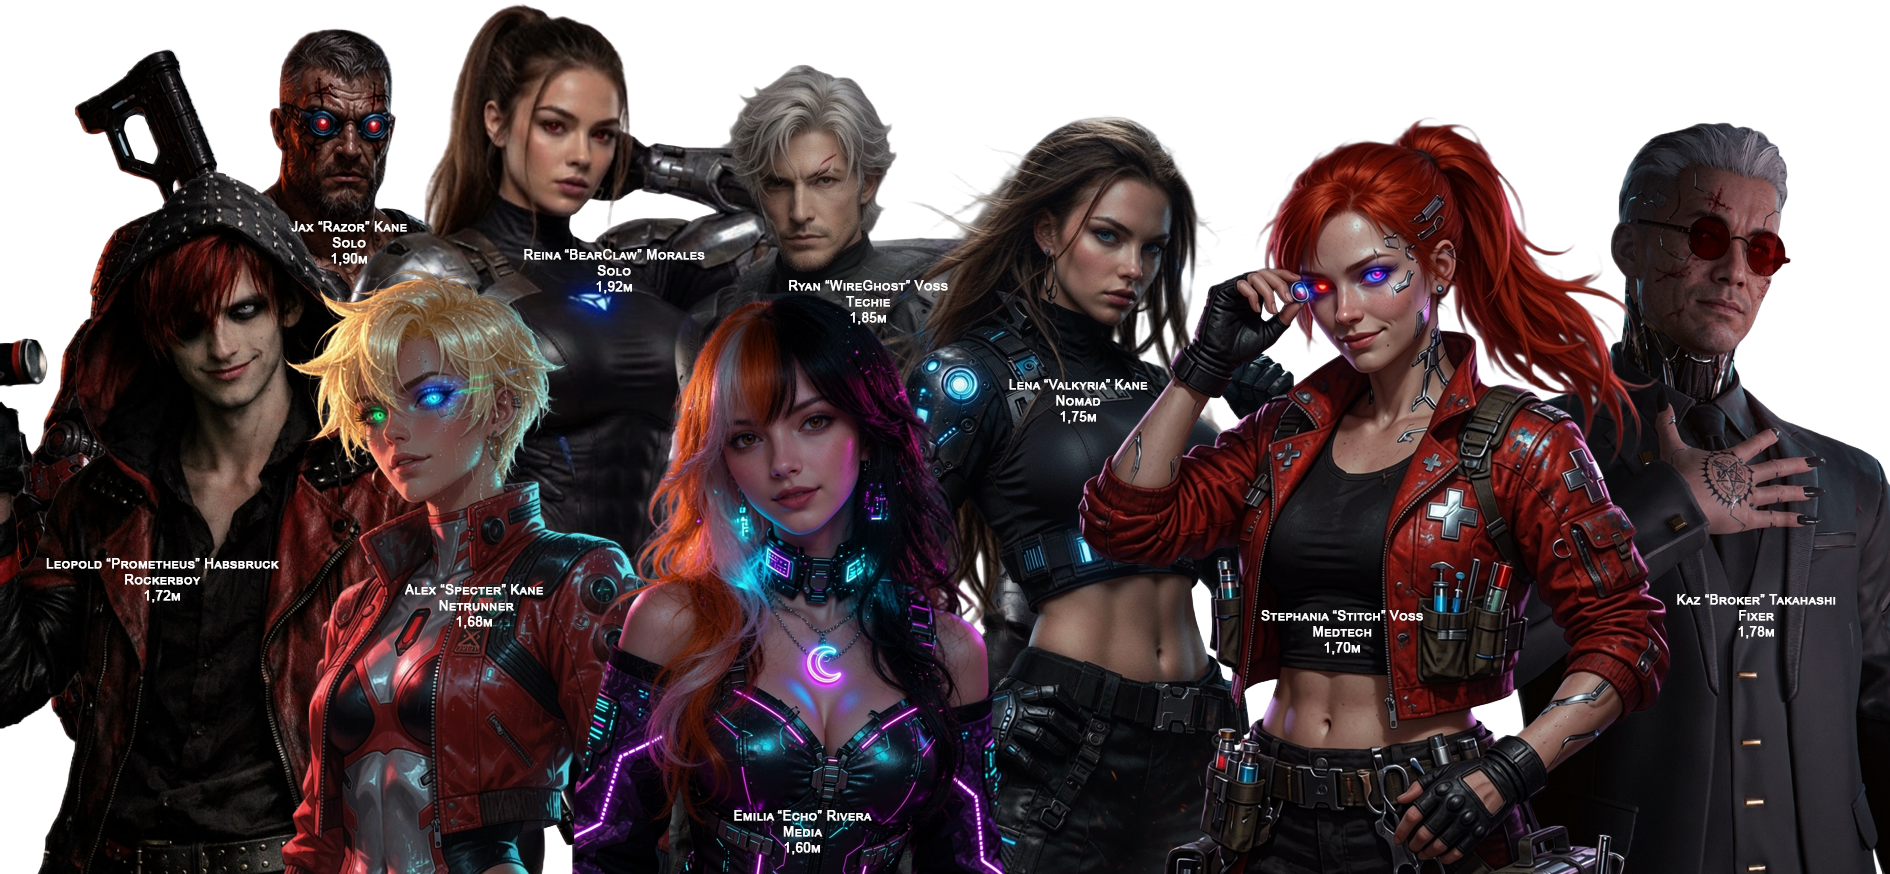
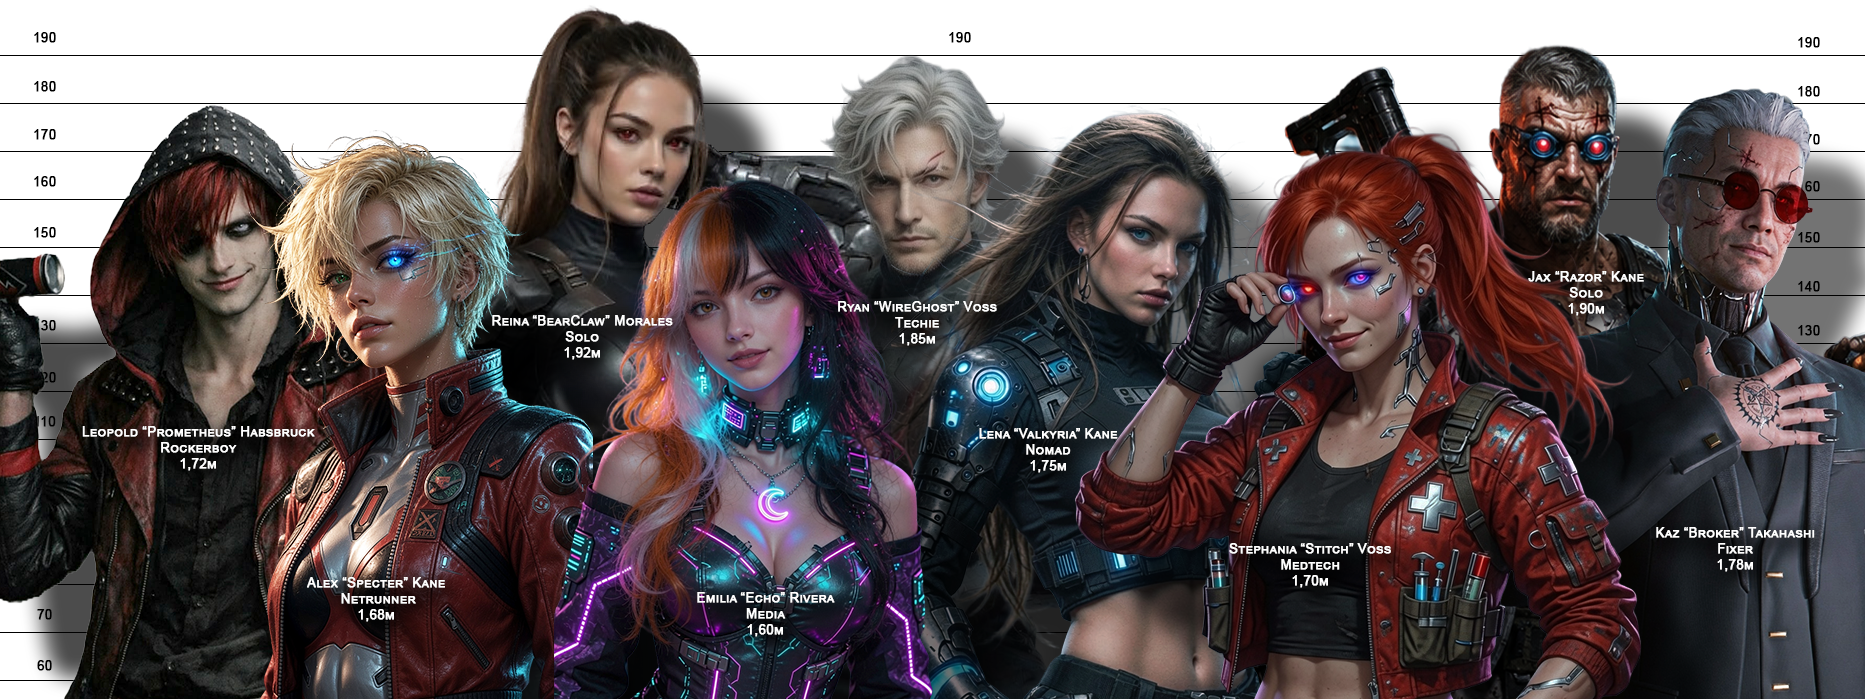
Fecha o acerto de IP até a 028 e os pontos de classe.
Ryan: rank 5 em Field e Fabrication; acerto 1.060, gasto 940, sobram 120.
Valk: Moto 6, Drive 7, Perception 6, Handgun 6; sobram 20.
Jax e Reina: loadout padrão. Stitch: Surgery 3 e Stim.
Sobe a lineup da crew em imagens/full_crew2.png.

diff --git a/sistema/regras_red/07_roles.md b/sistema/regras_red/07_roles.md
@@ -1,7 +1,7 @@
 ---
-version: 1.0.3
+version: 1.0.4
 status: stable
-last_updated: 2026-09-09
+last_updated: 2026-10-11
 source: Cyberpunk RED core (resumo operacional) + fichas da crew
 ---
 
@@ -21,7 +21,7 @@ Netrunning profundo: Fase 4 ([10](10_netrunning.md) quando existir).
 | Ranks | Maker **5** · Upgrade **3** · Invention **2** · Fabrication **4** · Field **1** |
 | Regras | [08_techie.md](08_techie.md) |
 
-**Em mesa:** fabricar, upar, inventar, jury rig, drones; Upgrade Expertise reduz HL em implantes elegíveis.
+**Em mesa:** fabricar, upar, inventar, jury rig, drones; Upgrade Expertise reduz HL em implantes elegíveis. Rank 5 pôs 1 em Field e 1 em Fabrication. Sequência na ficha. IP até a 028: acerto 1.060, gasto 940, sobram 120.
 
 ---
 
@@ -32,8 +32,9 @@ Netrunning profundo: Fase 4 ([10](10_netrunning.md) quando existir).
 | Ficha | [nomad - lena_valk_kane.md](../../fichas/nomad%20-%20lena_valk_kane.md) |
 | Veículo | [The Mule](../../fichas/vehicle%20-%20the_mule.md) · [09_veiculos](09_veiculos.md) |
 | F08 | Equipe **Valk + Mule** (atalho; handle = **Valkirya**, F21) |
+| Moto | **6** (criação 4 + IP). +6 em Drive e Vehicle Tech. Motorpool: 6 escolhas em aberto |
 
-**Em mesa:** bônus com veículos da família/pack (rank Moto na ficha se listado); Drive e perseguição; extração.  
+**Em mesa:** REF 8 + Drive 7 + Moto 6 + 1d10 ao dirigir. IP até a 028: acerto 1.060, gasto 1.040, sobram 20. Os upgrades do Mule (8x8, Vanisher, MIAC) não gastam motorpool.  
 Ryan **não** usa Moto por default.
 
 ---
@@ -42,10 +43,10 @@ Ryan **não** usa Moto por default.
 
 | Campo | Valor |
 | ----- | ----- |
-| Jax | [solo - jax_razor_kane.md](../../fichas/solo%20-%20jax_razor_kane.md) — Combat Awareness **6** (rifle / extração armada) |
-| Reina | [solo - reina_bearclaw_morales.md](../../fichas/solo%20-%20reina_bearclaw_morales.md) — Combat Awareness **6** (CQC / proteção) |
+| Jax | [solo - jax_razor_kane.md](../../fichas/solo%20-%20jax_razor_kane.md) — Combat Awareness **6**. Padrão: Precision 3, Spot Weakness 2, Threat Detection 1 |
+| Reina | [solo - reina_bearclaw_morales.md](../../fichas/solo%20-%20reina_bearclaw_morales.md) — Combat Awareness **6**. Padrão: Damage Deflection 4, Threat Detection 1, Spot Weakness 1 |
 
-**Em mesa (resumo core):** pontos de Combat Awareness por cena para init, detecção de emboscada, bônus de combate — gastar conforme rank; não spam infinito.
+**Em mesa:** a pool é o rank (6 pontos), não 2 por nível. Remanejar no início do combate ou com uma Action. Se ninguém mexer, vale o padrão da ficha. Kerenzikov já cobre a Iniciativa dos dois.
 
 ---
 
@@ -65,9 +66,9 @@ Ryan **não** usa Moto por default.
 | Campo | Valor |
 | ----- | ----- |
 | Ficha | [medtech - stephania_stitch_voss.md](../../fichas/medtech%20-%20stephania_stitch_voss.md) |
-| Medicine | Rank **4** (Surgery, pharma, etc.) |
+| Medicine | Rank **4** = 4 pontos. Surgery **3** (skill 6) · Pharmaceuticals **1** (Stim, Medical Tech 1) · Cryo **0** |
 
-**Em mesa:** First Aid / Paramedic / Surgery com DV melhores e opções de pharma; **≠ Doc Moreau** (F04).
+**Em mesa:** TECH 8 + Surgery 6 na mesa; Stim ignora a penalidade de Seriously Wounded por uma hora. **≠ Doc Moreau** (F04).
 
 ---
 
@@ -115,6 +116,11 @@ Lawman / Exec / etc.: **não na crew** — se aparecer NPC, criar bloco ou usar 
 ---
 
 ## Changelog
+
+### 1.0.4 — 2026-10-11
+
+- Ryan: rank 5 = Field 1 + Fabrication 1. IP 1.060 / gasto 940 / sobram 120.
+- Valk: Moto 6. Jax/Reina: loadout padrão da pool de 6. Stitch: Surgery 3, Stim 1, Cryo 0.
 
 ### 1.0.3 — 2026-09-09
 

diff --git a/fichas/nomad - lena_valk_kane.md b/fichas/nomad - lena_valk_kane.md
@@ -69,13 +69,44 @@ No **flanco esquerdo** — costela / abdômen até o quadril — tinta tribal es
 
 | Skill                | Nível | Skill                | Nível |
 | -------------------- | ----- | -------------------- | ----- |
-| Drive Land Vehicle   | 6     | Streetwise           | 4     |
-| Handgun              | 5     | Tactics              | 4     |
+| Drive Land Vehicle   | 7     | Streetwise           | 4     |
+| Handgun              | 6     | Tactics              | 4     |
 | Vehicle Tech         | 5     | Stealth              | 4     |
-| Perception           | 5     | Resist Torture/Drugs | 4     |
+| Perception           | 6     | Resist Torture/Drugs | 4     |
 | Athletics            | 4     | First Aid            | 3     |
 | Local Expert (Roads) | 3     | Endurance            | 3     |
 | Brawling             | 3     | Melee Weapon         | 2     |
+
+Vehicle Tech desta ficha = **Land Vehicle Tech**.
+
+## Role Ability: Moto 6
+
+Criação era **Moto 4** (o rank não estava na ficha). Ranks 5 e 6 pagos com IP, 2026-10-11.
+
+O rank soma em qualquer teste de **Drive Land Vehicle**, **Pilot Air Vehicle**, **Pilot Sea Vehicle**, **Land / Air / Sea Vehicle Tech**.
+
+| Teste que ela usa | Conta |
+| ----------------- | ----- |
+| Dirigir | REF 8 + Drive 7 + Moto 6 + 1d10 = **21 + 1d10** |
+| Land Vehicle Tech | TECH 7 + Vehicle Tech 5 + Moto 6 + 1d10 = **18 + 1d10** |
+| Handgun | REF 8 + 6 + 1d10 = **14 + 1d10** |
+| Perception | INT 6 + 6 + 1d10 = **12 + 1d10** |
+
+**Motorpool:** 1 escolha por rank, **6 em aberto** (4 da criação + rank 5 + rank 6). Cada escolha é um veículo de estoque daquele rank ou menos, ou um upgrade de rank igual ou menor num veículo da família. A família original está morta. O Mule já é dela. 8x8, Vanisher, MIAC-5 e o SP 20 continuam obra de campanha do Ryan — não gastam estas escolhas. Nada novo entra no Mule por esta linha até uma escolha ser sacada.
+
+**IP até a 028:** acerto **1.060** (22 sessões na faixa 40 + 6 na faixa 30; a mesma conta do Ryan). Gasto **1.040**. Sobram **20**.
+
+| Compra | Custo |
+| ------ | ----- |
+| Moto 5 | 300 |
+| Moto 6 | 360 |
+| Drive Land Vehicle 6→7 | 140 |
+| Perception 5→6 | 120 |
+| Handgun 5→6 | 120 |
+
+Moto 7 custaria mais 420. Faltam 400 para esse passo. Os 20 que sobram não compram o próximo nível de nenhuma skill que ela já tem (o mais barato útil seria Melee 2→3 = 60).
+
+Regras: [07_roles.md](../sistema/regras_red/07_roles.md) · [09_veiculos.md](../sistema/regras_red/09_veiculos.md).
 
 ## Cyberware
 

diff --git a/fichas/medtech - stephania_stitch_voss.md b/fichas/medtech - stephania_stitch_voss.md
@@ -68,7 +68,8 @@ Compartilha o sobrenome **Voss** com Ryan, mas **sem parentesco**. O sobrenome e
 - Paramedic (x2): 6 (excelente em campo)
 - Cybertech: 6
 - Basic Tech: 5
-- Medical Tech (via Role): Alta prioridade
+- Medical Tech: 1 (via Pharmaceuticals; ver Medicine abaixo)
+- Surgery: 6 (via Medicine; ver abaixo)
 - Resist Torture/Drugs: 5
 - Deduction: 5
 - Science (Biologia/Medicina): 5
@@ -85,11 +86,19 @@ Compartilha o sobrenome **Voss** com Ryan, mas **sem parentesco**. O sobrenome e
 
 ## MEDICINE (Role Ability - Rank 4)
 
-**Escolhas de Especialidades:**
+**4 pontos**, um por rank. Cada ponto vai para uma especialidade: Surgery, Pharmaceuticals ou Cryosystem.
 
-- Surgery (forte em implantes e ferimentos graves)
-- Medical Tech (Pharmaceuticals) (drogas de combate customizadas)
-- Medical Tech (Cryosystem) (se aplicável)
+| Especialidade | Pontos | O que vira |
+| ------------- | ------ | ---------- |
+| Surgery | 3 | Surgery skill **6** (2 de skill por ponto). Critical injury, implante de chrome, a mesa. |
+| Pharmaceuticals | 1 | Medical Tech skill **1**. Droga: **Stim**. |
+| Cryosystem Operation | 0 | Sem tanque. A linha antiga dizia "se aplicável". |
+
+**Stim:** a dose faz o alvo ignorar as penalidades de Seriously Wounded por uma hora. Uma vez por dia na mesma pessoa. Sintetizar: DV 13 com Medical Tech, 200 eb de material; em 1 hora, doses iguais ao Medical Tech (aqui, 1).
+
+Na jogada: TECH 8 + Surgery 6 + 1d10 na mesa. TECH 8 + Medical Tech 1 + 1d10 para a droga.
+
+Trocar o ponto de Stim por Speedheal (cura BODY+WILL, 1×/dia, se não estiver Mortally Wounded) não muda o resto. Cryo continua 0 até existir tanque.
 
 ## Cyberware (discreto, foco médico - HL controlado)
 

diff --git a/sistema/regras_red/09_veiculos.md b/sistema/regras_red/09_veiculos.md
@@ -1,7 +1,7 @@
 ---
-version: 1.1.0
+version: 1.1.1
 status: stable
-last_updated: 2026-10-03
+last_updated: 2026-10-11
 source: Cyberpunk RED core (resumo operacional) + ficha The Mule
 ---
 
@@ -78,9 +78,9 @@ Skills de outros meios (Water / Air) só se a cena e a ficha tiverem.
 
 ## 6. Nomad — Moto (ponte)
 
-- Role Ability **Moto** / Family (core): bônus com veículos da família / pack — ver ranks na ficha da **Valk**.  
-- Em dúvida: Valk + Mule = pacote tático (F08); bônus de Moto só se a ficha tiver rank listado.  
-- **Não** aplicar bônus Nomad a Ryan por default (ele não é Nomad).
+- Role Ability **Moto 6** (ficha da Valk): +6 em Drive Land / Pilot Air / Pilot Sea e em Land / Air / Sea Vehicle Tech. Dirigir o Mule: REF 8 + Drive 7 + Moto 6 + 1d10.
+- Valk + Mule = pacote tático (F08). As 6 escolhas de motorpool estão em aberto; não somar upgrade novo no Mule por esta linha.
+- **Não** aplicar Moto a Ryan (ele não é Nomad).
 
 ---
 
@@ -102,6 +102,10 @@ Anti-ID / Void List em jobs com Echo: ver ficha Mule + [echo_exposicao](../echo_
 ---
 
 ## Changelog
+
+### 1.1.1 — 2026-10-11
+
+- Valk Moto 6 na ponte. Motorpool não entra no Mule.
 
 ### 1.1.0 — 2026-10-03
 

diff --git a/fichas/solo - reina_bearclaw_morales.md b/fichas/solo - reina_bearclaw_morales.md
@@ -51,7 +51,19 @@ Hoje: freelancer de rua. Presença primeiro, porrada se precisar. **“Mãe Urso
 
 ## Role Ability: Combat Awareness 6
 
-Pontos por cena para iniciativa, detecção de emboscada e bônus de CQC — gastar conforme rank; não spam. Regras: [07_roles.md](../sistema/regras_red/07_roles.md).
+Pool de **6** pontos (1 por rank). Remanejar no início do combate, fora dele, ou em combate com uma Action. Se ninguém mexer, vale este padrão. CQC / proteção. Jax é o tiro.
+
+**Padrão — o escudo:**
+
+| Efeito | Pontos | Na jogada |
+| ------ | ------ | --------- |
+| Damage Deflection | 4 | **−2** no primeiro dano que ela toma no round |
+| Threat Detection | 1 | **+1** em Perception |
+| Spot Weakness | 1 | **+1** de dano, antes da armadura, no primeiro acerto do round |
+
+Kerenzikov já dá **+2** de Iniciativa. Este padrão não compra Initiative Reaction. O −2 da Deflection é só o primeiro dano do round.
+
+Regras: [07_roles.md](../sistema/regras_red/07_roles.md).
 
 ## Skills (86 pts; Combat Awareness à parte)
 

diff --git a/fichas/solo - jax_razor_kane.md b/fichas/solo - jax_razor_kane.md
@@ -76,7 +76,19 @@ EMP no limite = custo de chrome **visual**, não tema de cyberpsychosis.
 
 ## Role Ability: Combat Awareness 6
 
-Pontos por cena para iniciativa, detecção de emboscada e bônus de combate — gastar conforme rank; não spam. Regras: [07_roles.md](../sistema/regras_red/07_roles.md). Rifle / extração armada, não CQC de Reina.
+Pool de **6** pontos (1 por rank). Remanejar no início do combate, fora dele, ou em combate com uma Action. Se ninguém mexer, vale este padrão. Rifle / extração. Reina é o escudo.
+
+**Padrão — o tiro:**
+
+| Efeito | Pontos | Na jogada |
+| ------ | ------ | --------- |
+| Precision Attack | 3 | **+1** em ataques |
+| Spot Weakness | 2 | **+2** de dano, antes da armadura, no primeiro acerto do round |
+| Threat Detection | 1 | **+1** em Perception |
+
+Kerenzikov já dá **+2** de Iniciativa. Este padrão não compra Initiative Reaction nem Damage Deflection.
+
+Regras: [07_roles.md](../sistema/regras_red/07_roles.md).
 
 ---
 
